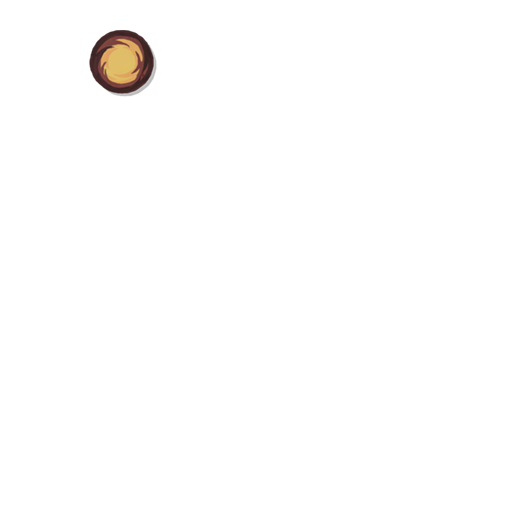
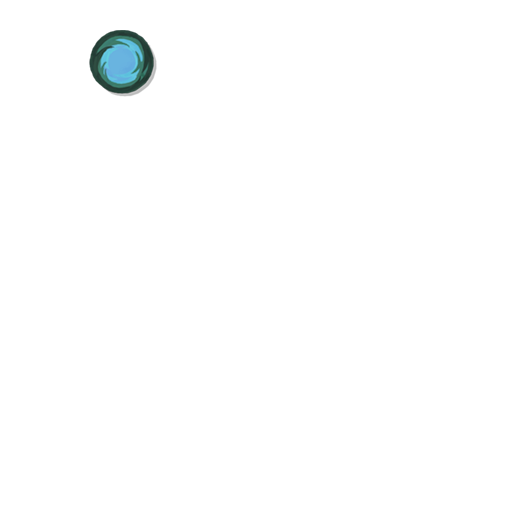
All OK!?

Changed region(s): [[0.1562, 0.0625, 0.3125, 0.1875]]

diff --git a/src/main/java/theFishing/cards/DoubleUp.java b/src/main/java/theFishing/cards/DoubleUp.java
@@ -1,38 +1,40 @@
 package theFishing.cards;
 
+import com.evacipated.cardcrawl.mod.stslib.cards.interfaces.StartupCard;
 import com.megacrit.cardcrawl.actions.AbstractGameAction;
-import com.megacrit.cardcrawl.actions.common.DrawCardAction;
+import com.megacrit.cardcrawl.actions.common.DamageAllEnemiesAction;
+import com.megacrit.cardcrawl.cards.DamageInfo;
 import com.megacrit.cardcrawl.characters.AbstractPlayer;
 import com.megacrit.cardcrawl.dungeons.AbstractDungeon;
 import com.megacrit.cardcrawl.monsters.AbstractMonster;
+import theFishing.cards.AbstractFishingCard;
 
 import static theFishing.FishingMod.makeID;
-import static theFishing.util.Wiz.atb;
+import static theFishing.util.Wiz.*;
 
-public class DoubleUp extends AbstractFishingCard {
+public class DoubleUp extends AbstractFishingCard implements StartupCard {
     public final static String ID = makeID("DoubleUp");
-    // intellij stuff attack, enemy, common, 4, 2, , , 2, 
+    // intellij stuff attack, enemy, common, 4, 2, , , , 
 
     public DoubleUp() {
         super(ID, 1, CardType.ATTACK, CardRarity.COMMON, CardTarget.ENEMY);
         baseDamage = 4;
-        baseMagicNumber = magicNumber = 2;
+        baseMagicNumber = magicNumber = 4;
     }
 
     public void use(AbstractPlayer p, AbstractMonster m) {
         dmg(m, AbstractGameAction.AttackEffect.BLUNT_LIGHT);
         dmg(m, AbstractGameAction.AttackEffect.BLUNT_LIGHT);
-        if (p.currentBlock > 0) {
-            atb(new DrawCardAction(magicNumber));
-        }
     }
 
     @Override
-    public void triggerOnGlowCheck() {
-        glowColor = AbstractDungeon.player.currentBlock > 0 ? GOLD_BORDER_GLOW_COLOR : BLUE_BORDER_GLOW_COLOR;
+    public boolean atBattleStartPreDraw() {
+        atb(new DamageAllEnemiesAction(AbstractDungeon.player, DamageInfo.createDamageMatrix(magicNumber), damageTypeForTurn, AbstractGameAction.AttackEffect.BLUNT_LIGHT));
+        return true;
     }
 
     public void upp() {
         upgradeDamage(2);
+        upgradeMagicNumber(2);
     }
 }

diff --git a/src/main/java/theFishing/actions/PerfectPullAction.java b/src/main/java/theFishing/actions/PerfectPullAction.java
@@ -1,24 +1,22 @@
 package theFishing.actions;
 
 import com.megacrit.cardcrawl.actions.AbstractGameAction;
-import com.megacrit.cardcrawl.actions.common.DamageAllEnemiesAction;
+import com.megacrit.cardcrawl.actions.common.AttackDamageRandomEnemyAction;
 import com.megacrit.cardcrawl.actions.common.DrawCardAction;
-import com.megacrit.cardcrawl.cards.DamageInfo;
-import com.megacrit.cardcrawl.core.AbstractCreature;
+import com.megacrit.cardcrawl.cards.AbstractCard;
+import com.megacrit.cardcrawl.dungeons.AbstractDungeon;
 import theFishing.patch.foil.FoilPatches;
 import theFishing.util.Wiz;
 
 public class PerfectPullAction extends AbstractGameAction {
-    private int[] damage;
-    private DamageInfo.DamageType type;
     private AttackEffect effect;
     private boolean isFast;
+    private AbstractCard c;
 
-    public PerfectPullAction(AbstractCreature source, int[] amount, AbstractGameAction.AttackEffect effect, boolean isFast) {
+    public PerfectPullAction(AbstractCard c, AbstractGameAction.AttackEffect effect, boolean isFast) {
+        this.c = c;
 
-        this.source = source;
-        this.damage = amount;
-        this.type = DamageInfo.DamageType.NORMAL;
+        this.source = AbstractDungeon.player;
         this.effect = effect;
         this.isFast = isFast;
     }
@@ -31,10 +29,10 @@ public class PerfectPullAction extends AbstractGameAction {
             public void update() {
                 isDone = true;
                 if (DrawCardAction.drawnCards.stream().anyMatch(q -> FoilPatches.isFoil(q))) {
-                    addToTop(new PerfectPullAction(source, damage, effect, isFast));
+                    addToTop(new PerfectPullAction(c, effect, isFast));
                 }
             }
         }));
-        Wiz.att(new DamageAllEnemiesAction(source, damage, type, effect, isFast));
+        Wiz.att(new AttackDamageRandomEnemyAction(c, effect));
     }
 }

diff --git a/src/main/java/theFishing/cards/QuestTimeTheLuckyPack.java b/src/main/java/theFishing/cards/QuestTimeTheLuckyPack.java
@@ -7,6 +7,7 @@ import com.megacrit.cardcrawl.monsters.AbstractMonster;
 import theFishing.actions.AcceptQuestAction;
 import theFishing.quest.quests.TheLuckyPack;
 
+import static com.megacrit.cardcrawl.actions.AbstractGameAction.AttackEffect.FIRE;
 import static theFishing.FishingMod.makeID;
 import static theFishing.util.Wiz.atb;
 
@@ -15,12 +16,12 @@ public class QuestTimeTheLuckyPack extends AbstractFishingCard {
     // intellij stuff attack, all_enemy, uncommon, 7, 3, , , , 
 
     public QuestTimeTheLuckyPack() {
-        super(ID, 1, CardType.ATTACK, CardRarity.UNCOMMON, CardTarget.ALL_ENEMY);
+        super(ID, 1, CardType.ATTACK, CardRarity.UNCOMMON, CardTarget.ENEMY);
         baseDamage = 8;
     }
 
     public void use(AbstractPlayer p, AbstractMonster m) {
-        atb(new AttackDamageRandomEnemyAction(this, AbstractGameAction.AttackEffect.FIRE));
+        dmg(m, FIRE);
         atb(new AcceptQuestAction(new TheLuckyPack()));
     }
 

diff --git a/src/main/java/theFishing/cards/ThornyPersonality.java b/src/main/java/theFishing/cards/ThornyPersonality.java
@@ -15,14 +15,16 @@ public class ThornyPersonality extends AbstractFishingCard {
     public ThornyPersonality() {
         super(ID, 1, CardType.SKILL, CardRarity.COMMON, CardTarget.SELF);
         baseBlock = 8;
-        baseMagicNumber = magicNumber = 3;
+        baseMagicNumber = magicNumber = 1;
+        baseSecondMagic = secondMagic = 2;
 
     }
 
     public void use(AbstractPlayer p, AbstractMonster m) {
         blck();
+        applyToSelf(new ThornsPower(p, magicNumber));
         if (isVoyaged()) {
-            applyToSelf(new ThornsPower(p, magicNumber));
+            applyToSelf(new ThornsPower(p, secondMagic));
         }
     }
 
@@ -33,5 +35,6 @@ public class ThornyPersonality extends AbstractFishingCard {
     public void upp() {
         upgradeBlock(2);
         upgradeMagicNumber(1);
+        upgradeSecondMagic(1);
     }
 }

diff --git a/src/main/java/theFishing/TheFishing.java b/src/main/java/theFishing/TheFishing.java
@@ -229,7 +229,9 @@ public class TheFishing extends CustomPlayer {
     @Override
     public void initializeStarterDeck() {
         super.initializeStarterDeck();
-        makeFoil(AbstractDungeon.player.masterDeck.group.get(4));
-        makeFoil(AbstractDungeon.player.masterDeck.group.get(8));
+        int first = AbstractDungeon.ascensionLevel >= 10 ? 5 : 4;
+        int second = AbstractDungeon.ascensionLevel >= 10 ? 9 : 8;
+        makeFoil(AbstractDungeon.player.masterDeck.group.get(first));
+        makeFoil(AbstractDungeon.player.masterDeck.group.get(second));
     }
 }

diff --git a/src/main/java/theFishing/cards/PerfectPull.java b/src/main/java/theFishing/cards/PerfectPull.java
@@ -15,11 +15,10 @@ public class PerfectPull extends AbstractFishingCard {
     public PerfectPull() {
         super(ID, 1, CardType.ATTACK, CardRarity.COMMON, CardTarget.ALL_ENEMY);
         baseDamage = 4;
-        isMultiDamage = true;
     }
 
     public void use(AbstractPlayer p, AbstractMonster m) {
-        atb(new PerfectPullAction(p, multiDamage, AbstractGameAction.AttackEffect.BLUNT_LIGHT, false));
+        atb(new PerfectPullAction(this, AbstractGameAction.AttackEffect.BLUNT_LIGHT, false));
     }
 
     public void upp() {

diff --git a/src/main/java/theFishing/cards/SicklyShine.java b/src/main/java/theFishing/cards/SicklyShine.java
@@ -17,7 +17,7 @@ public class SicklyShine extends AbstractFishingCard {
     // intellij stuff power, self, rare, , , , , 1, 
 
     public SicklyShine() {
-        super(ID, 2, CardType.POWER, CardRarity.RARE, CardTarget.SELF);
+        super(ID, 1, CardType.POWER, CardRarity.RARE, CardTarget.SELF);
         baseMagicNumber = magicNumber = 1;
     }
 
@@ -39,6 +39,6 @@ public class SicklyShine extends AbstractFishingCard {
     }
 
     public void upp() {
-        upgradeBaseCost(1);
+        upgradeBaseCost(0);
     }
 }

diff --git a/src/main/java/theFishing/cards/Standoff.java b/src/main/java/theFishing/cards/Standoff.java
@@ -17,13 +17,13 @@ public class Standoff extends AbstractFishingCard {
 
     public Standoff() {
         super(ID, 1, CardType.SKILL, CardRarity.UNCOMMON, CardTarget.SELF);
-        baseBlock = 6;
+        baseBlock = 7;
     }
 
     public void use(AbstractPlayer p, AbstractMonster m) {
         blck();
         if (getEnemies().size() == 1) {
-            applyToSelf(new NextTurnBlockPower(p, block));
+            blck();
         }
     }
 

diff --git a/src/main/java/theFishing/cards/PlantFlag.java b/src/main/java/theFishing/cards/PlantFlag.java
@@ -17,7 +17,7 @@ public class PlantFlag extends AbstractFishingCard {
         AbstractCard q = new Flag();
         makeFoil(q);
         cardsToPreview = q;
-        baseBlock = 2;
+        baseBlock = 3;
     }
 
     public void use(AbstractPlayer p, AbstractMonster m) {

diff --git a/src/main/java/theFishing/cards/Wander.java b/src/main/java/theFishing/cards/Wander.java
@@ -29,6 +29,8 @@ public class Wander extends AbstractFishingCard {
     }
 
     public void upp() {
-        upgradeDamage(3);
+        upgradeDamage(2);
+        upgradeMagicNumber(1);
+        uDesc();
     }
 }
